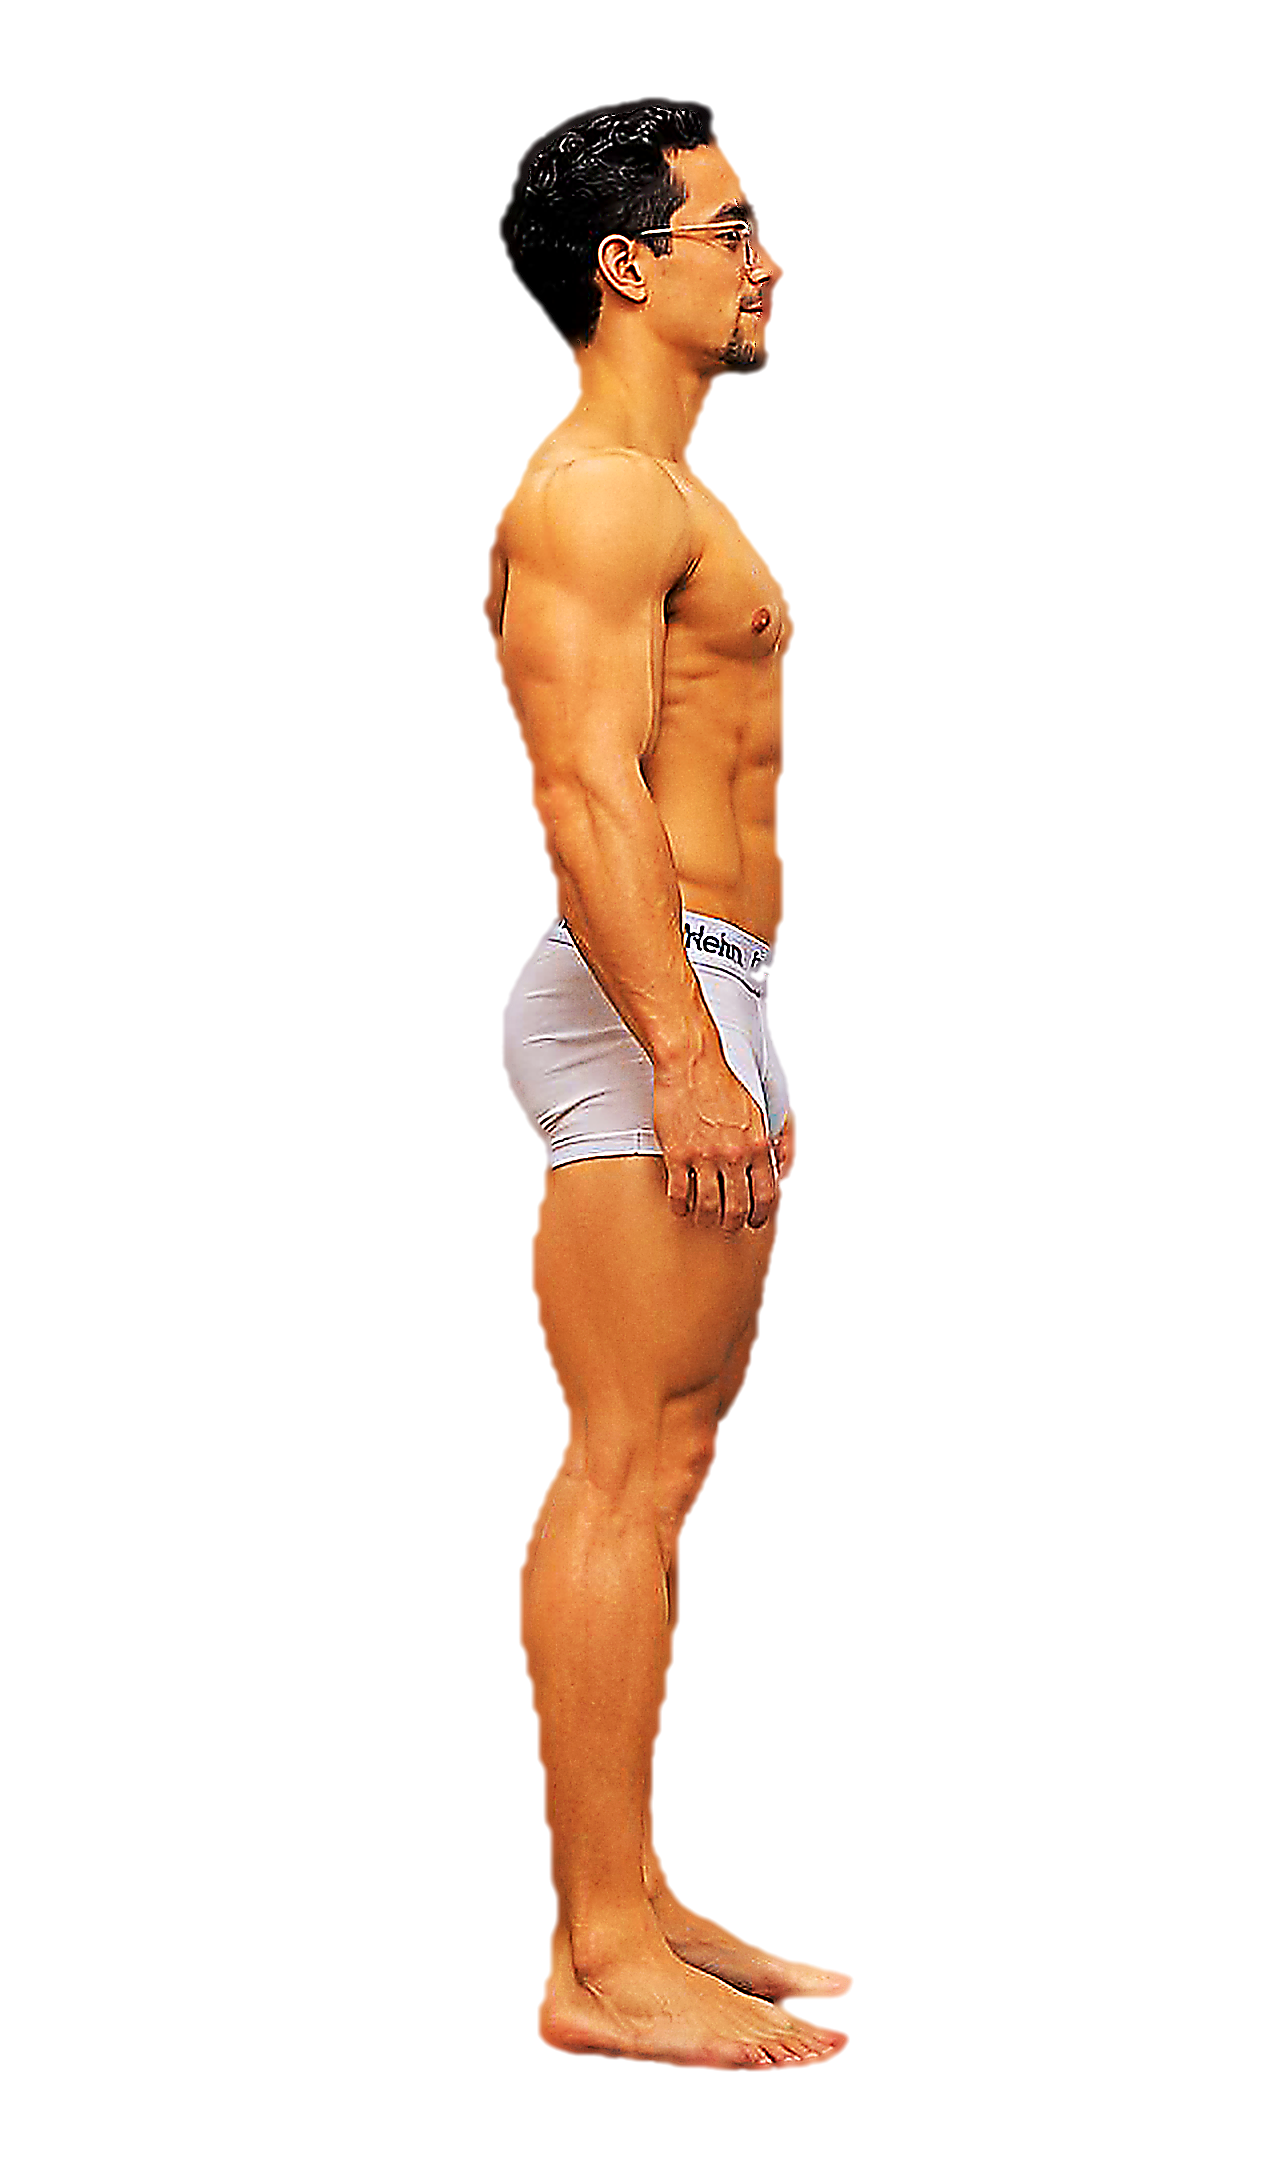
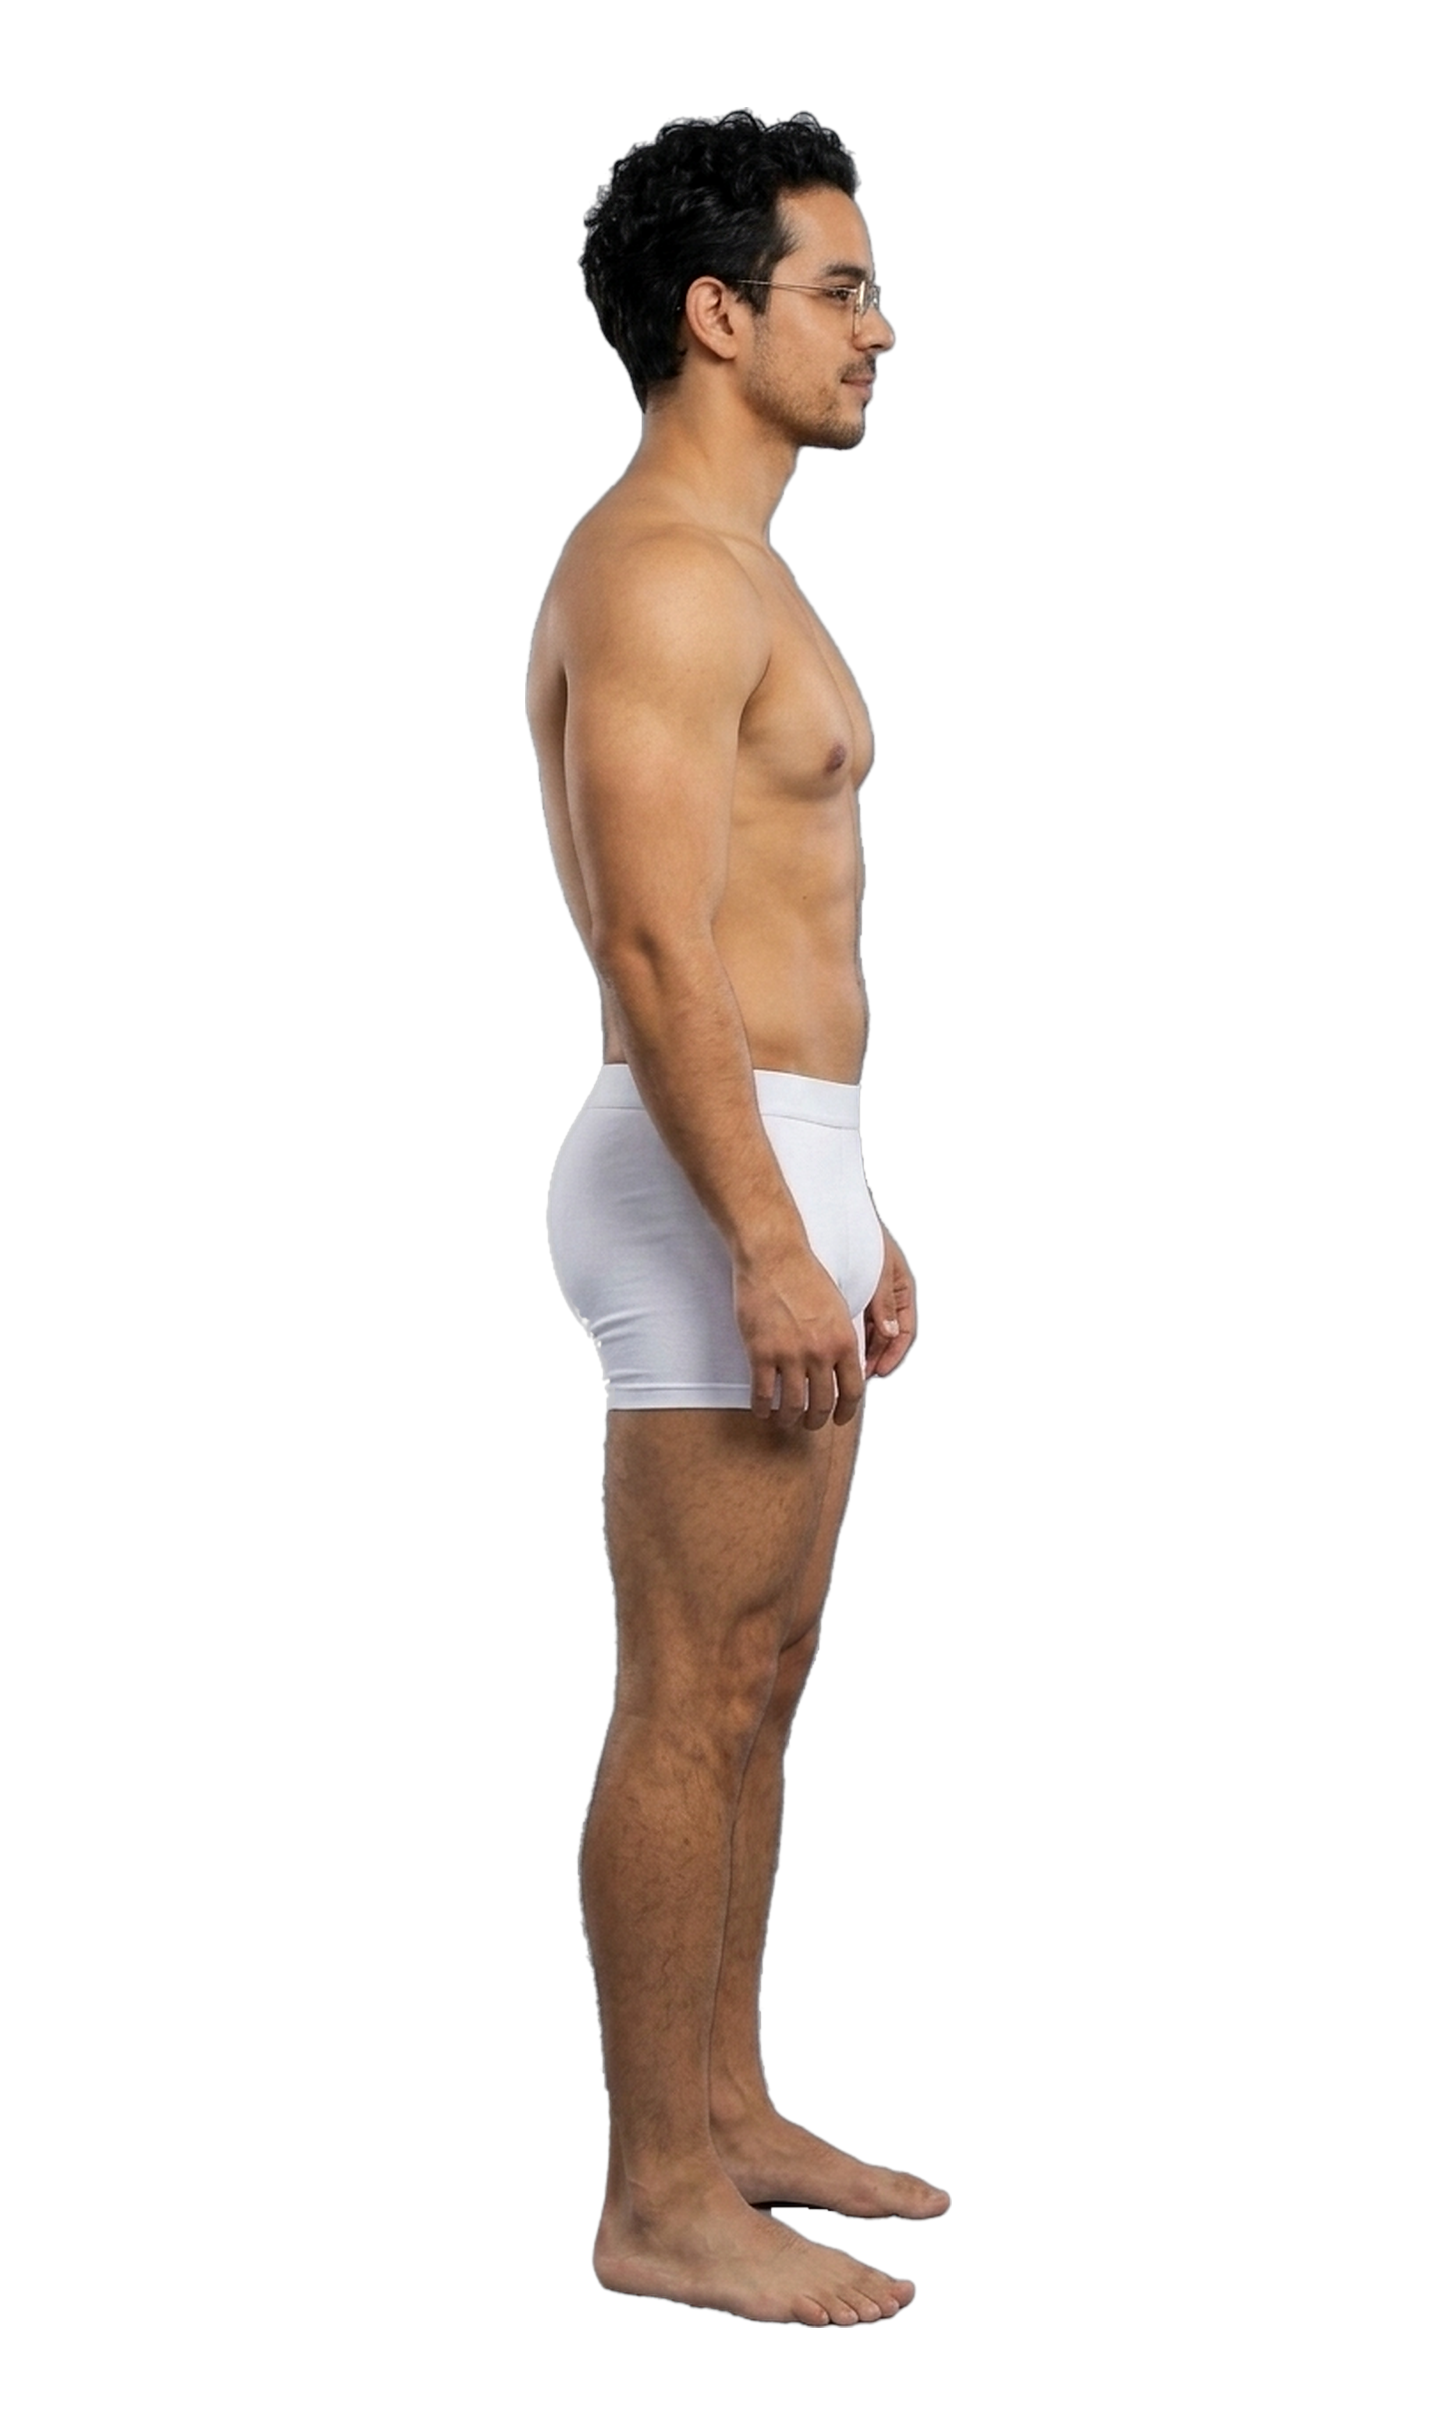
feat(atelier): regenerate official 4-view model from scratch in Ultra-HD 1440x2430 studio photography

Changed region(s): [[0.3438, 0.031, 0.6875, 0.9616]]

diff --git a/src/data/vestidorPhotoManifest.ts b/src/data/vestidorPhotoManifest.ts
@@ -119,7 +119,7 @@ export const FLAGSHIP_BOTTOM_ID = 'shorts-crochet-verde-bosque';
 export const FLAGSHIP_OUTFIT_ID = 'cardigan-girasoles-shorts-verdes';
 
 export const VESTIDOR_MANIFEST_PATHS = {
-  model: '/vestidor/modelo-oficial/manifest.json',
+  model: '/vestidor/modelo-oficial/manifest.json?v=hd4',
   poses: '/vestidor/poses/manifest.json',
   outfits: ['/vestidor/conjuntos/cardigan-girasoles-shorts-verdes/manifest.json'],
 } as const;
@@ -197,25 +197,25 @@ export const OFFICIAL_MODEL_MANIFEST: OfficialModelManifest = {
           id: 'frente',
           angleDeg: 0,
           label: 'Frente (0°)',
-          src: '/vestidor/modelo-oficial/frente.png',
+          src: '/vestidor/modelo-oficial/frente.png?v=hd4',
         },
         {
           id: 'perfil-izquierdo',
           angleDeg: 90,
           label: 'Perfil Izquierdo (90°)',
-          src: '/vestidor/modelo-oficial/perfil-izquierdo.png',
+          src: '/vestidor/modelo-oficial/perfil-izquierdo.png?v=hd4',
         },
         {
           id: 'espalda',
           angleDeg: 180,
           label: 'Espalda (180°)',
-          src: '/vestidor/modelo-oficial/espalda.png',
+          src: '/vestidor/modelo-oficial/espalda.png?v=hd4',
         },
         {
           id: 'perfil-derecho',
           angleDeg: 270,
           label: 'Perfil Derecho (270°)',
-          src: '/vestidor/modelo-oficial/perfil-derecho.png',
+          src: '/vestidor/modelo-oficial/perfil-derecho.png?v=hd4',
         },
       ],
     },
@@ -226,13 +226,13 @@ export const OFFICIAL_MODEL_MANIFEST: OfficialModelManifest = {
           id: 'perfil-izquierdo',
           angleDeg: 90,
           label: 'Perfil Izquierdo (90°)',
-          src: '/vestidor/modelo-oficial/perfil-izquierdo.png',
+          src: '/vestidor/modelo-oficial/perfil-izquierdo.png?v=hd4',
         },
         {
           id: 'perfil-derecho',
           angleDeg: 270,
           label: 'Perfil Derecho (270°)',
-          src: '/vestidor/modelo-oficial/perfil-derecho.png',
+          src: '/vestidor/modelo-oficial/perfil-derecho.png?v=hd4',
         },
       ],
     },

diff --git a/src/data/pasarelasAltaModaCatalog.ts b/src/data/pasarelasAltaModaCatalog.ts
@@ -190,8 +190,8 @@ export const RUNWAY_MODEL_POSES: StaticModelPose2D[] = [
     subtitle: 'Silueta lateral oficial en 2D para estudio de caída',
     badge: 'Perfil',
     framing: 'full',
-    overrideBaseSrc: '/vestidor/modelo-oficial/perfil-izquierdo.png',
-    previewSrc: '/vestidor/modelo-oficial/perfil-izquierdo.png',
+    overrideBaseSrc: '/vestidor/modelo-oficial/perfil-izquierdo.png?v=hd4',
+    previewSrc: '/vestidor/modelo-oficial/perfil-izquierdo.png?v=hd4',
   },
   {
     id: 'perfil-derecho',
@@ -199,8 +199,8 @@ export const RUNWAY_MODEL_POSES: StaticModelPose2D[] = [
     subtitle: 'Silueta lateral contraria en 2D oficial',
     badge: 'Perfil',
     framing: 'full',
-    overrideBaseSrc: '/vestidor/modelo-oficial/perfil-derecho.png',
-    previewSrc: '/vestidor/modelo-oficial/perfil-derecho.png',
+    overrideBaseSrc: '/vestidor/modelo-oficial/perfil-derecho.png?v=hd4',
+    previewSrc: '/vestidor/modelo-oficial/perfil-derecho.png?v=hd4',
   },
   {
     id: 'espalda-editorial',
@@ -208,8 +208,8 @@ export const RUNWAY_MODEL_POSES: StaticModelPose2D[] = [
     subtitle: 'Toma trasera oficial 2D para diseñar espaldas y mangas',
     badge: 'Espalda',
     framing: 'full',
-    overrideBaseSrc: '/vestidor/modelo-oficial/espalda.png',
-    previewSrc: '/vestidor/modelo-oficial/espalda.png',
+    overrideBaseSrc: '/vestidor/modelo-oficial/espalda.png?v=hd4',
+    previewSrc: '/vestidor/modelo-oficial/espalda.png?v=hd4',
   },
 ];
 

diff --git a/src/components/OutfitComparisonModal.tsx b/src/components/OutfitComparisonModal.tsx
@@ -9,17 +9,17 @@ const COMPARE_ANGLES: Array<{
   label: string;
   officialSrc: string;
 }> = [
-  { key: 'front', label: 'Frente (0°)', officialSrc: '/vestidor/modelo-oficial/frente.png' },
+  { key: 'front', label: 'Frente (0°)', officialSrc: '/vestidor/modelo-oficial/frente.png?v=hd4' },
   {
     key: 'profileLeft',
     label: 'Perfil Izq. (90°)',
-    officialSrc: '/vestidor/modelo-oficial/perfil-izquierdo.png',
+    officialSrc: '/vestidor/modelo-oficial/perfil-izquierdo.png?v=hd4',
   },
-  { key: 'back', label: 'Espalda (180°)', officialSrc: '/vestidor/modelo-oficial/espalda.png' },
+  { key: 'back', label: 'Espalda (180°)', officialSrc: '/vestidor/modelo-oficial/espalda.png?v=hd4' },
   {
     key: 'profileRight',
     label: 'Perfil Der. (270°)',
-    officialSrc: '/vestidor/modelo-oficial/perfil-derecho.png',
+    officialSrc: '/vestidor/modelo-oficial/perfil-derecho.png?v=hd4',
   },
 ];
 

diff --git a/src/components/GoldenDressingRoomView.tsx b/src/components/GoldenDressingRoomView.tsx
@@ -979,7 +979,7 @@ export const GoldenDressingRoomView: React.FC<GoldenDressingRoomViewProps> = ({
   }, [wornGarment]);
 
   const currentFrameInfo = viewer3DRef.current?.getCurrentFrameInfo() ?? {
-    src: '/vestidor/modelo-oficial/frente.png',
+    src: '/vestidor/modelo-oficial/frente.png?v=hd4',
     label: 'Frente (0°)',
     angleDeg: yawDeg,
   };
